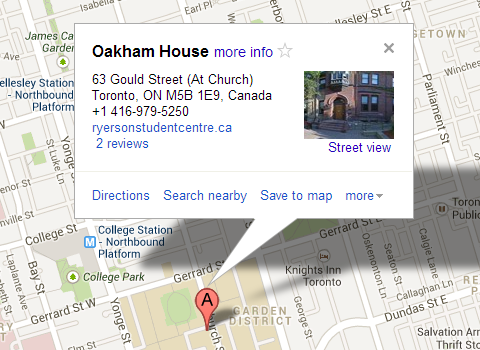
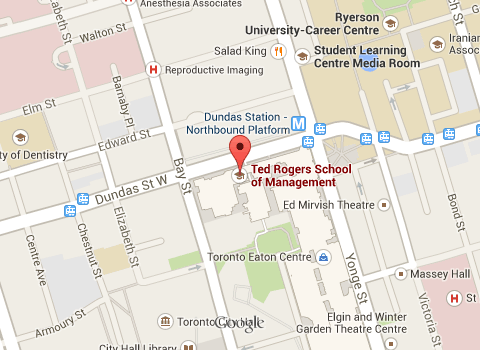
Update info to 2014 and change location

diff --git a/index.html b/index.html
@@ -16,7 +16,6 @@
     <link rel="stylesheet" href="bootstrap-responsive.min.css" />
     <link rel="stylesheet" href="font/fontawesome.css" />
     <link rel="stylesheet" href="style.css" />
-    <noframes><link rel="stylesheet" href="noframes.css" /></noframes>
     <script>
         // appends a JS class to everything when javascript is enabled.
         document.getElementsByTagName('html')[0].className += 'js';
@@ -75,12 +74,12 @@
                     </form>
                 </div>
                 <div id="logistics" class="span3">
-                    <strong>Date Information Coming Soon!</strong>
-                    <!-- <strong>November 23, 2013</strong> -->
+                    <strong>Date &amp; Time Coming Soon!</strong>
+                    <!-- <strong>November 23, 2014</strong> -->
                     <!-- <strong>12&nbsp;PM to 4&nbsp;PM</strong> -->
-                    Oakham House<br/>
-                    63 Gould Street (At Church)<br/>
-                    Toronto, ON M5B&nbsp;1E9<br/>
+                    Ted Rogers School of Management<br/>
+                    55&nbsp;Dundas&nbsp;St&nbsp;W<br/>
+                    Toronto,&nbsp;ON&nbsp;M5G&nbsp;2C5<br/>
                     <br/><a href="#contactModal" data-toggle="modal" data-target="#contactModal">Contact Us</a>
                 </div>
             </div>
@@ -126,7 +125,7 @@
                     <img src="img/matthew.jpg" alt="Student Panellist"/>
                     <h3>Matthew James Lee</h3>
                     <h4>York / Schulich</h4>
-                    <p>Matthew is a BBA Candidate at Schulich School of Business, set to graduate in 2013. He has worked as a Strategic Merchant Banking Analyst at CIBC and Accounting Intern at Monarch Corporation. Matthew is also a Senior Analyst for the York University Finance Club and a Mentor in the Schulich Protege Program.</p>
+                    <p>Matthew has a BBA from the Schulich School of Business. He has worked as a Strategic Merchant Banking Analyst at CIBC and Accounting Intern at Monarch Corporation. Matthew is also a Senior Analyst for the York University Finance Club and a Mentor in the Schulich Protege Program.</p>
                 </li>
                 <li class="span3">
                     <img src="img/dhruv.jpg" alt="Student Panellist"/>
@@ -152,7 +151,7 @@
                     <img src="img/talisa.jpg" alt="Student Panellist"/>
                     <h3>Talisa Kean-Newland</h3>
                     <h4>UofT / Rotman</h4>
-                    <p>Talisa is a Rotman Commerce B.Com candidate at the University of Toronto. She will be graduating in 2013 with a specialist in Accounting and minor in Economics, subsequently pursuing her CA designation at Deloitte Canada. Talisa has mastered maintaining a balance between an intense academic and part-time employment schedule throughout her entire university career.</p>
+                    <p>Talisa is a Rotman Commerce B.Comm candidate at the University of Toronto. She graduated with a specialist in Accounting and minor in Economics, subsequently pursuing her CA designation at Deloitte Canada. Talisa has mastered maintaining a balance between an intense academic and part-time employment schedule throughout her entire university career.</p>
                 </li><!-- 
                 <li class="span3">
                     <img src="http://placehold.it/300x200&amp;text=Coming+Soon" alt="Student Panellist"/>
@@ -197,9 +196,8 @@
             <div class="span4 offset5">
             <h2>Location</h2>
             </div>
-            <noframes><img id="large-map-img" src="img/large-map.png" alt="The location of this year's university will be at OCAD university. 100 McCaul Street, Toronto, ON, M5T 1W1" /></noframes>
-            <img id="small-map-img" src="img/small-map.png" alt="The location of this year's university will be at OCAD university. 100 McCaul Street, Toronto, ON, M5T 1W1" />
-            <iframe id="map-frame" width="100%" height="350" frameborder="0" scrolling="no" marginheight="0" marginwidth="0" src="https://maps.google.com/maps?f=q&amp;source=s_q&amp;hl=en&amp;geocode=&amp;q=oakham+house&amp;aq=&amp;sll=37.0625,-95.677068&amp;sspn=58.858685,49.482422&amp;ie=UTF8&amp;hq=oakham+house&amp;hnear=&amp;ll=43.668041,-79.378107&amp;spn=0.013273,0.033023&amp;t=m&amp;z=14&amp;iwloc=A&amp;cid=10606924802877257679&amp;output=embed"></iframe>
+            <img id="small-map-img" src="img/small-map.png" alt="The location of this year's university will be at the Ted Rogers School of Management. 55 Dundas St W, Toronto, ON, M5G 2C5" />
+            <iframe id="map-frame" width="100%" height="350" frameborder="0" scrolling="no" marginheight="0" marginwidth="0" src="https://www.google.com/maps/embed?pb=!1m14!1m8!1m3!1d2886.6373939038817!2d-79.382488!3d43.655712!3m2!1i1024!2i768!4f13.1!3m3!1m2!1s0x0%3A0x28635d2093ed2cc1!2sTed+Rogers+School+of+Management!5e0!3m2!1ses!2s!4v1401649122163"></iframe>
         </div>
 
         <div id="faq" class="row-fluid">
@@ -249,7 +247,7 @@
     <div id="registerModal" class="modal hide fade" tabindex="-1" role="dialog" aria-labelledby="registerModal" aria-hidden="true">
         <div class="modal-header">
             <button class="close" type="button" data-dismiss="modal" aria-hidden="true">x</button>
-            <h3>Register for Atlas Symposium 2013</h3>
+            <h3>Register for Atlas Symposium 2014</h3>
         </div>
         <div class="modal-body">
             <form action="http://kortaggio.us2.list-manage.com/subscribe/post?u=1ce577b697f10829b9ec5574f&amp;id=7c6f7d7924" method="post" id="modal-form" name="mc-embedded-subscribe-form" class="validate" target="_blank" novalidate>
@@ -288,7 +286,7 @@
     
     <div id="footer" class="row-fluid">
         <a href="#contactModal" data-toggle="modal" data-target="#contactModal">Contact Us</a>
-        <p>Copyright 2013 Atlas Access Inc.</p>
+        <p>Copyright 2011-2014 Atlas Access Inc.</p>
     </div>
     
     <script type="text/javascript" src="js/jquery-1.9.1.min.js"></script>

diff --git a/js/main.js b/js/main.js
@@ -1,6 +1,6 @@
 $('#email-submit').on('mouseover', function() {
     $('#email-field').show(50);
-    $('#email-submit').val('Send me an email reminder')
+    $('#email-submit').val('Send me an email reminder');
 });
 
 $('#facebookNav').on('mouseenter', function(){

diff --git a/TO-DO.md b/TO-DO.md
@@ -1,19 +1,8 @@
-Last updated Mar 13, 2013
+Last updated Jun 01, 2014
 
 - [ ] Fix awkward gaps on mobile
 - [ ] Add Apple metadata for thumbnail images
 - [ ] Make the site load low-res versions of images on a mobile phone
-
-Completed
-
-- [x] Link the email signup form to MailChimp - Mar 13, 2013
-- [x] Add Facebook thumbnail image - Mar 13, 2013
-- [x] Favicon - Mar 13, 2013
-- [x] Make a map image for the noframes version, and link to Google Maps - Mar 4, 2013
-- [x] Make sure the nojs version for the email signup form works - Feb 24, 2013
-- [x] Social Media links - Feb 23, 2012
-- [x] Put a call to action at the bottom - Feb 23, 2012
-- [x] Set up framework for site - Feb 22, 2012
 
 Things to do once the conference gets running
 
